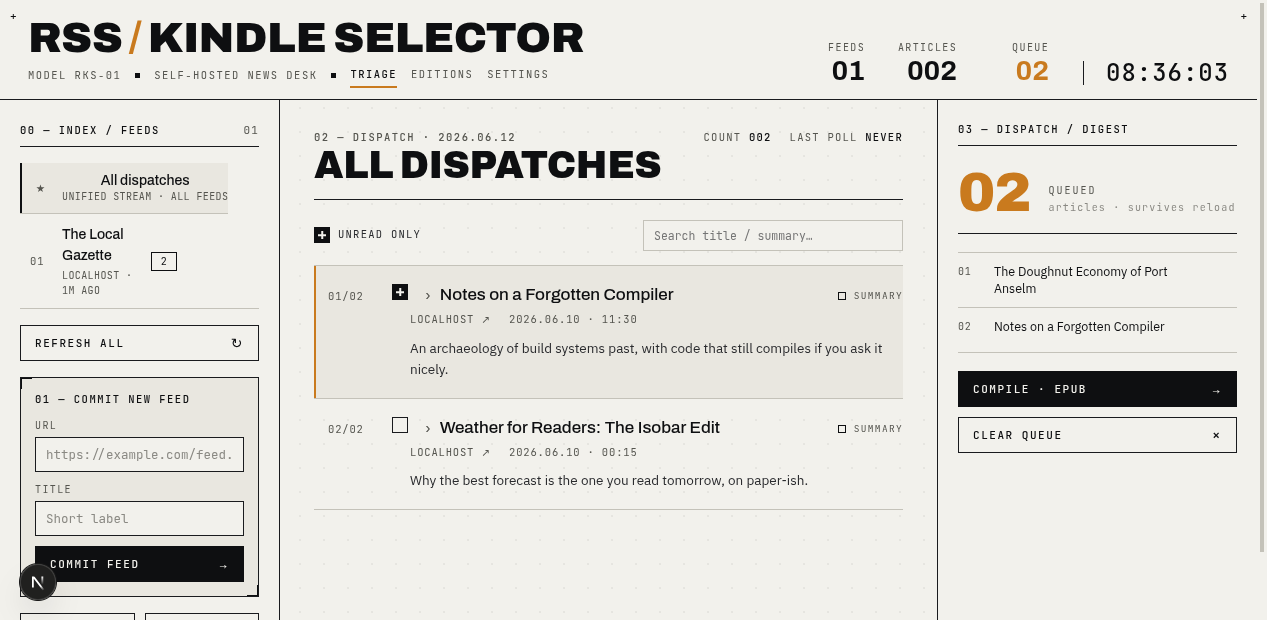
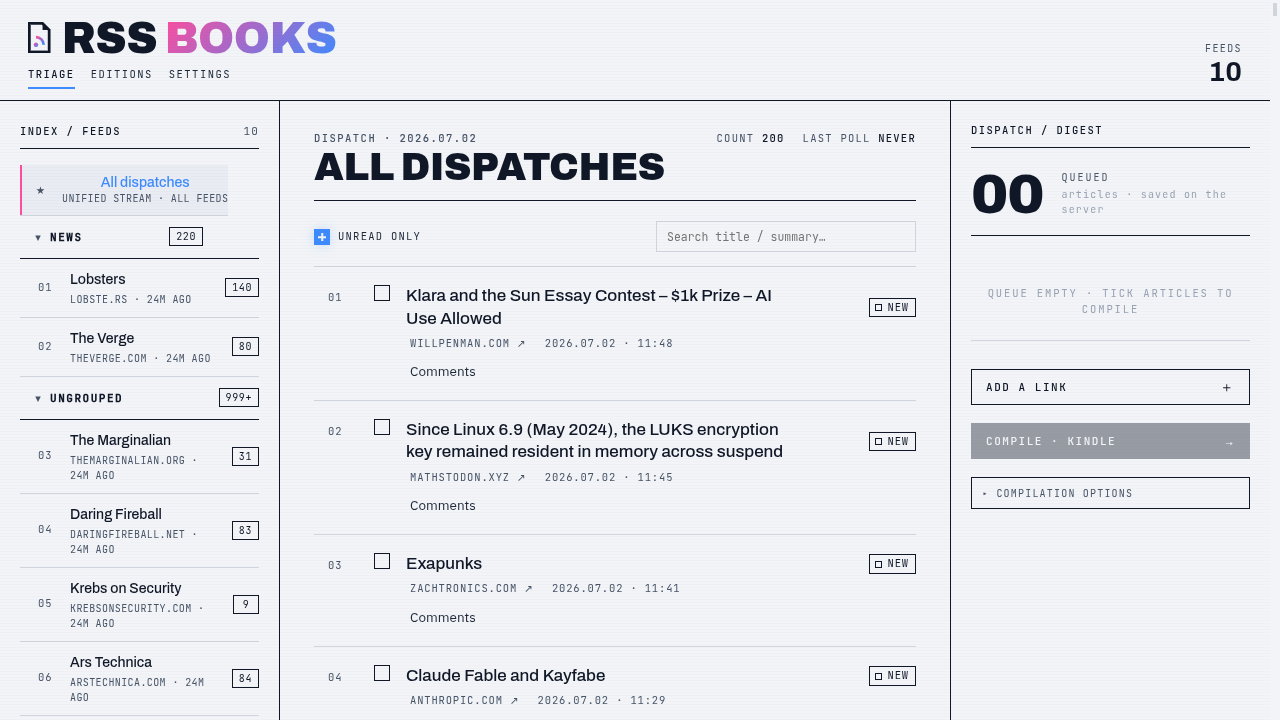
docs: sync README env vars, contributing style note, triage screenshot
- README: document HTTP/HTTPS ports, TLS listener vars, READER_FALLBACK and
  TAVILY_API_KEY
- CONTRIBUTING: design-language note updated for the blue/pink accent system
  (--amber deprecated)
- Refresh triage screenshot to the current UI

diff --git a/README.md b/README.md
@@ -94,6 +94,10 @@ variables for operators:
 | `STATIC_DIR` | unset (`/app/static` in Docker) | Static web app to serve same-origin |
 | `SCHEDULER_ENABLED` | `1` | Set `0` to disable background polling entirely |
 | `SMTP_HOST` / `SMTP_PORT` / `SMTP_USERNAME` / `SMTP_PASSWORD` / `SMTP_FROM` | unset | Override stored SMTP settings (keep credentials out of the DB) |
+| `HTTP_PORT` / `HTTPS_PORT` | `8765` / `8443` | Listener ports |
+| `TLS_ENABLED` / `TLS_CERT_FILE` / `TLS_KEY_FILE` / `TLS_SAN_IPS` | `1` / `./data/certs/...` / unset | Self-signed TLS listener for clients that require HTTPS |
+| `READER_FALLBACK` | unset | External extraction fallback for bot-walled sites: `tavily` or `jina` (also settable in Settings → Article fetching) |
+| `TAVILY_API_KEY` | unset | API key when `READER_FALLBACK=tavily` |
 
 ## Limits worth knowing
 

diff --git a/CONTRIBUTING.md b/CONTRIBUTING.md
@@ -43,8 +43,9 @@ uv run --directory services/api --extra dev pytest tests/test_digests.py -q
   tests never hit the network.
 - **Style:** ruff (rules `E,F,W,I,UP,B`, line length 100) and strict-ish mypy
   on the API; eslint + `tsc --noEmit` on the web app. Frontend follows
-  [docs/design-language.md](docs/design-language.md): paper/ink/amber tokens,
-  sharp corners, mono eyebrows.
+  [docs/design-language.md](docs/design-language.md): paper/ink tokens with the
+  dual blue/pink accent (`--amber` is a deprecated alias — don't use it in new
+  code), sharp corners, mono eyebrows.
 - **Commits:** conventional style (`feat:`, `fix:`, `chore:`, `docs:`...).
 
 ## Filing issues
